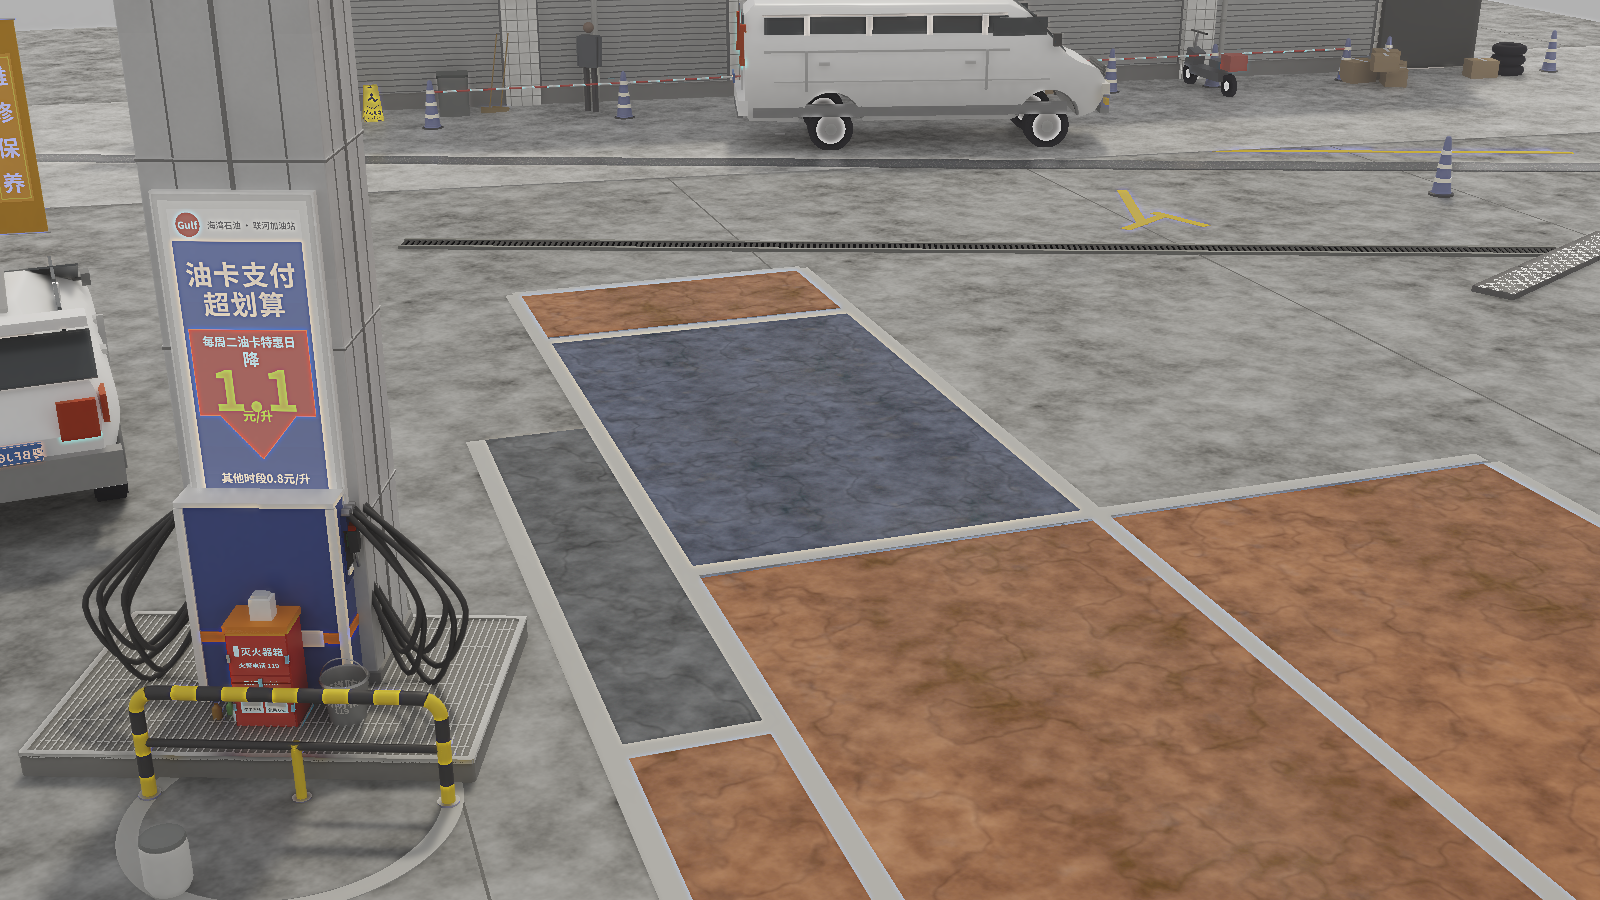
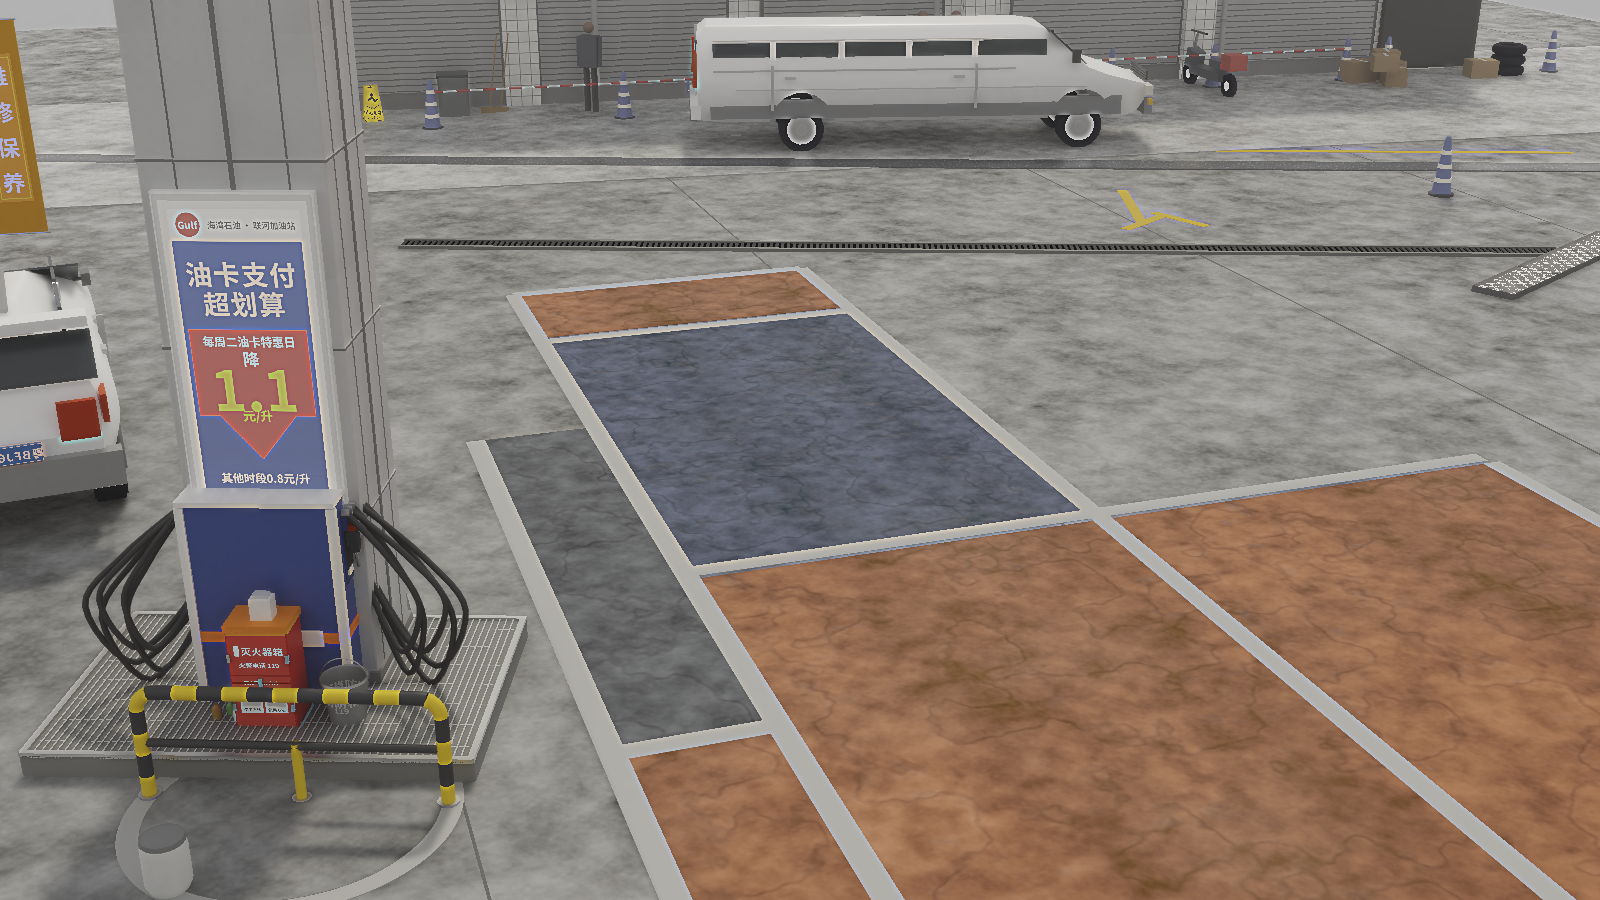
the van's rocker is nearly black in the photograph, not grey

Changed region(s): [[0.4062, 0.0, 0.7188, 0.1867]]

diff --git a/examples/cases/forecourt/parts.py b/examples/cases/forecourt/parts.py
@@ -871,7 +871,8 @@ def van():
 
     p = MeshProgram()
     p.place(loft_grid(lower, upper, hw, n_smooth=2), material=BODY_WH)
-    body = mat((0.235, 0.24, 0.25), 0.0, 0.42)
+    # the rocker in the photograph is nearly black against the white body, not grey
+    body = mat((0.105, 0.108, 0.115), 0.0, 0.45)
     trim = mat((0.50, 0.505, 0.51), 0.0, 0.35)
 
     def flank(x, z, out=0.0):
